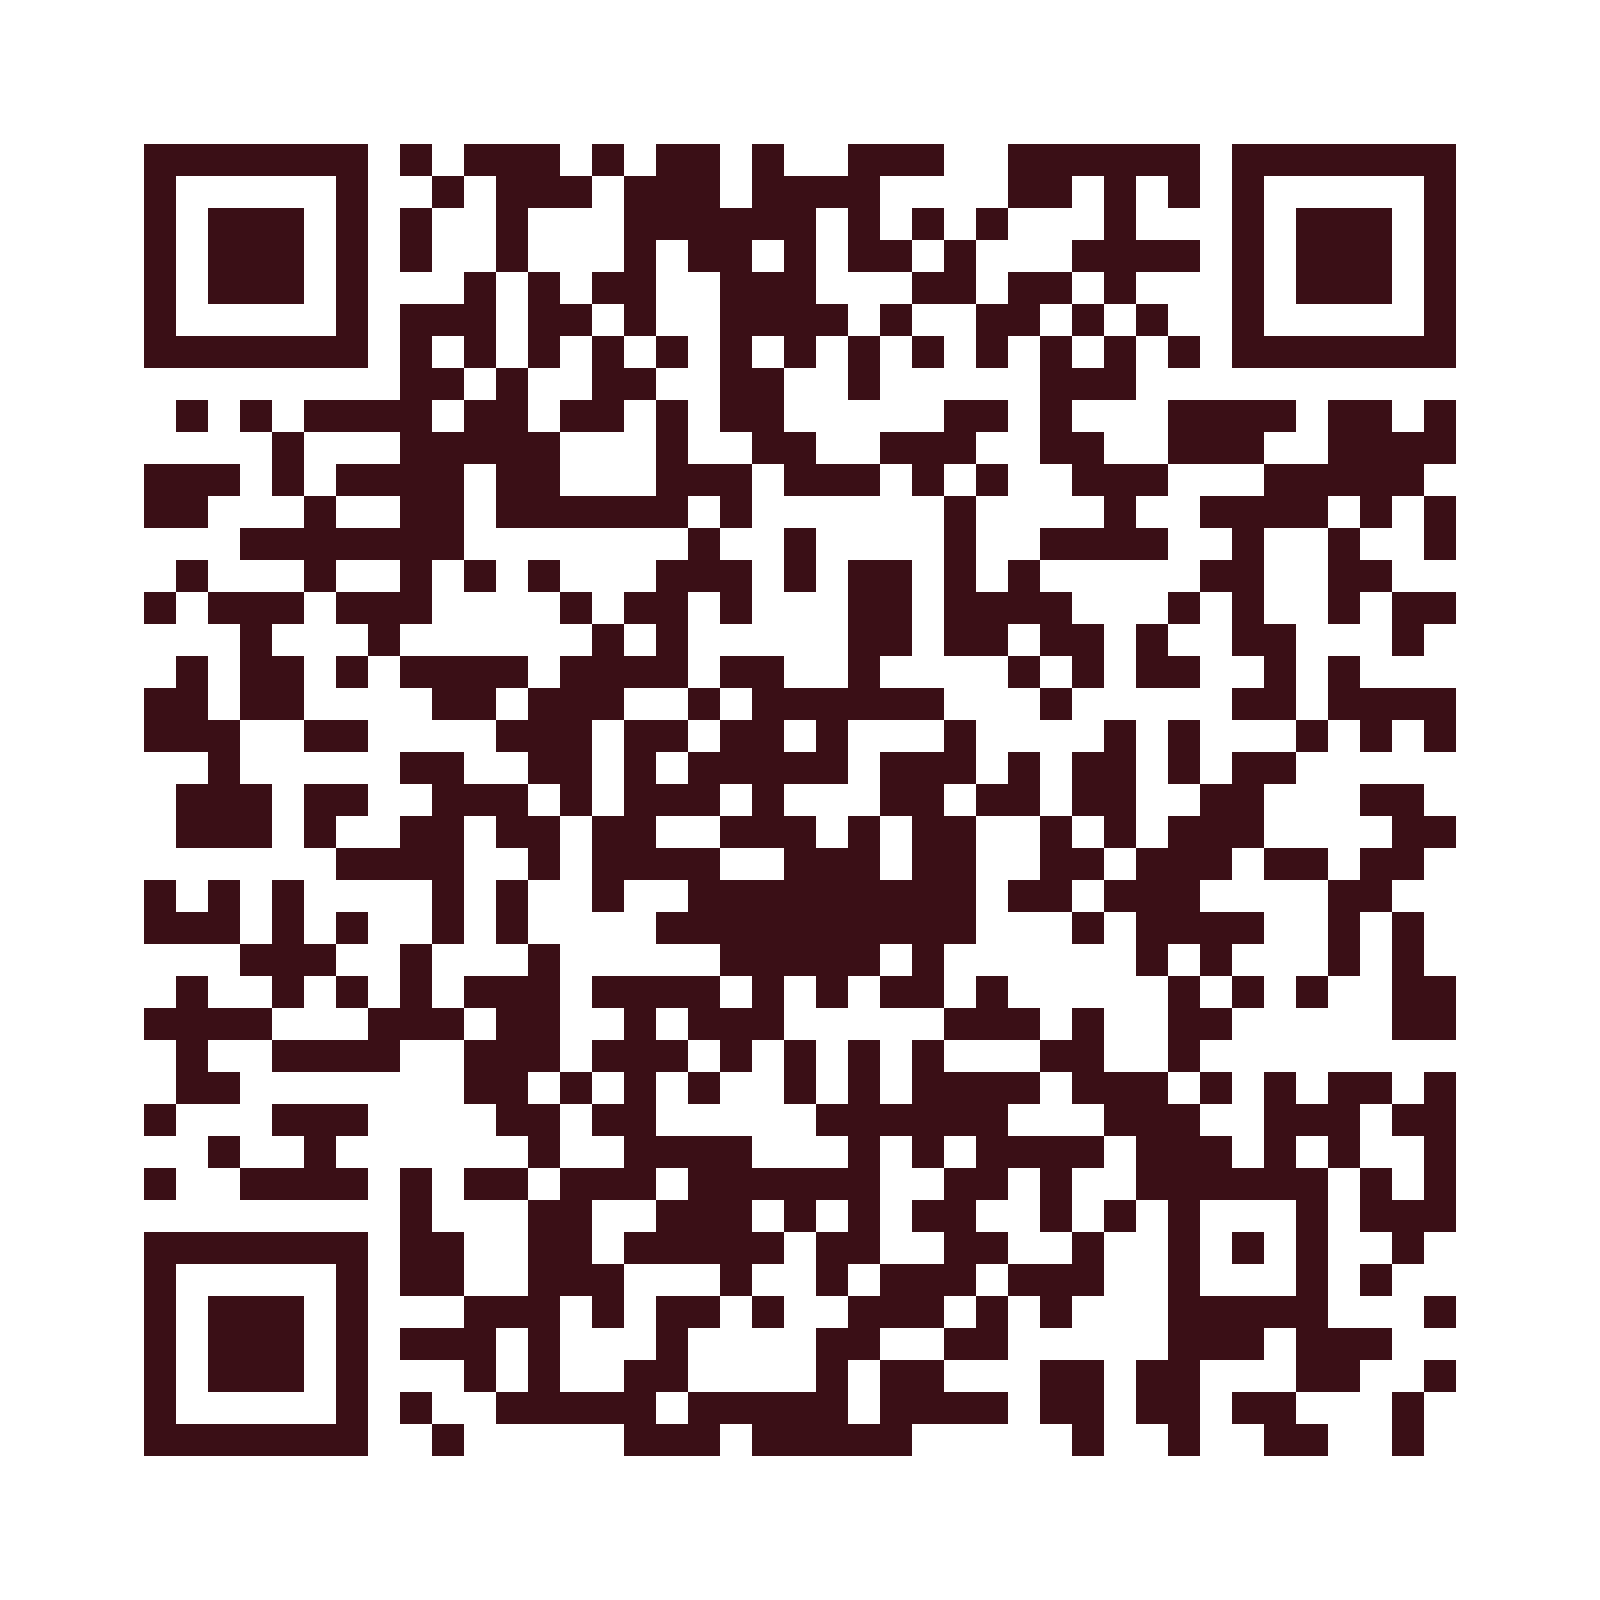
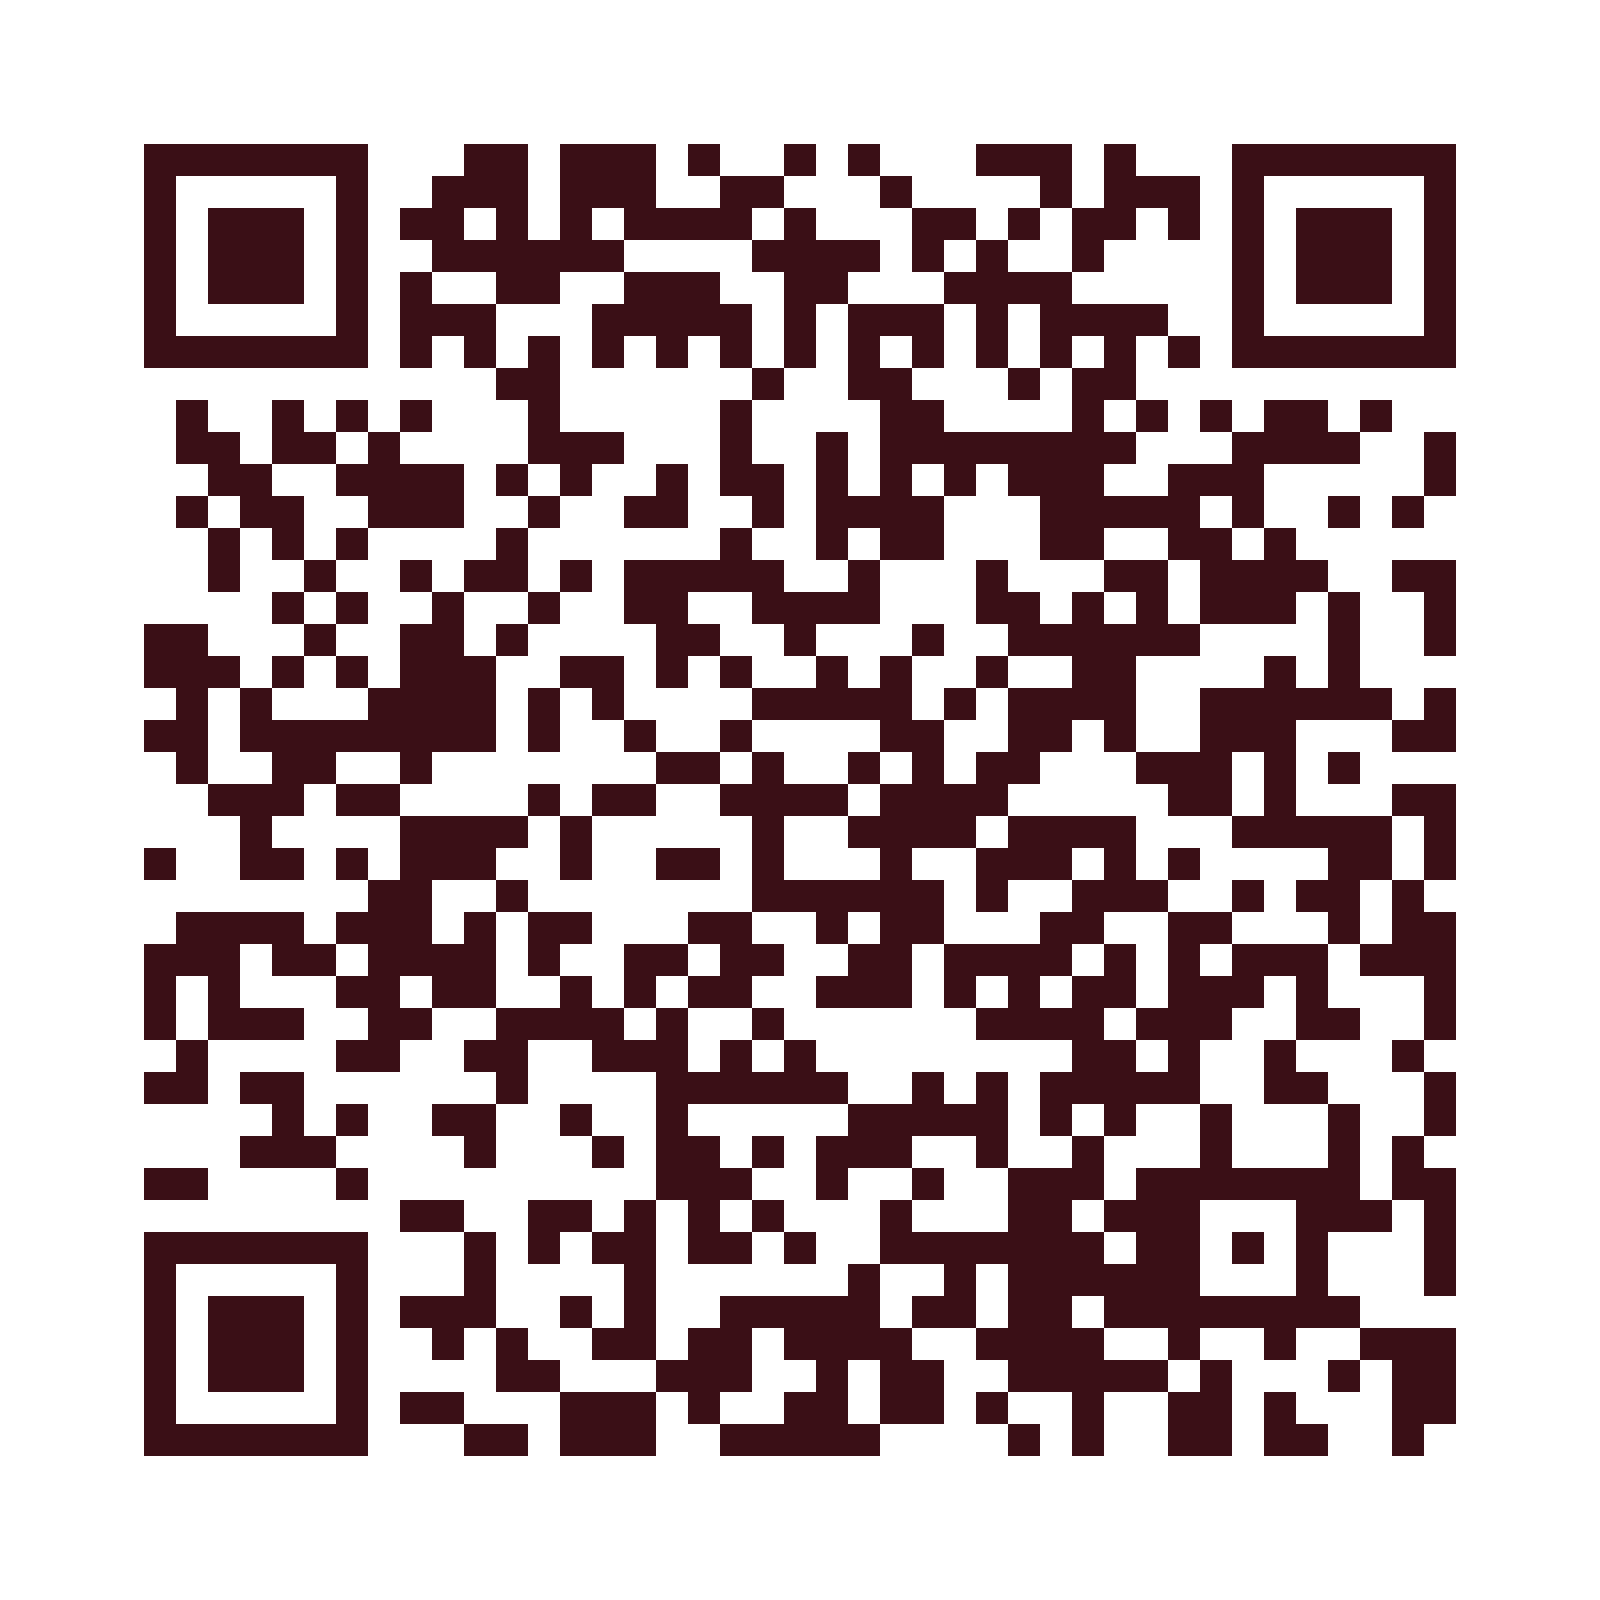
Endereço próprio solarbeirao-metrikaid.vercel.app (QR, vCard, canonical, sitemap)
O domínio solarbeirao-cacilhas.vercel.app pertence a outro projeto.

Claude-Session: https://claude.ai/code/session_01PyPXjCKKoYb4UxffwtLSCb

Changed region(s): [[0.0625, 0.0625, 0.9375, 0.9375]]

diff --git a/index.html b/index.html
@@ -6,16 +6,16 @@
 <meta name="theme-color" content="#7a1f2b">
 <title>Solar Beirão Marisqueira · Cacilhas</title>
 <meta name="description" content="Solar Beirão Marisqueira em Cacilhas: ementa em 8 línguas, reservas, horário, avaliações e como chegar.">
-<link rel="canonical" href="https://solarbeirao-cacilhas.vercel.app/">
+<link rel="canonical" href="https://solarbeirao-metrikaid.vercel.app/">
 <meta name="robots" content="noindex">
 <meta property="og:type" content="restaurant.restaurant">
 <meta property="og:title" content="Solar Beirão Marisqueira · Cacilhas">
 <meta property="og:description" content="Solar Beirão Marisqueira em Cacilhas: ementa em 8 línguas, reservas, horário, avaliações e como chegar.">
-<meta property="og:url" content="https://solarbeirao-cacilhas.vercel.app/">
-<meta property="og:image" content="https://solarbeirao-cacilhas.vercel.app/og.jpg">
+<meta property="og:url" content="https://solarbeirao-metrikaid.vercel.app/">
+<meta property="og:image" content="https://solarbeirao-metrikaid.vercel.app/og.jpg">
 <meta property="og:image:width" content="1200"><meta property="og:image:height" content="630">
 <meta name="twitter:card" content="summary_large_image">
-<script type="application/ld+json">{"@context":"https://schema.org","@type":"Restaurant","name":"Solar Beirão Marisqueira","url":"https://solarbeirao-cacilhas.vercel.app","image":"https://solarbeirao-cacilhas.vercel.app/og.jpg","logo":"https://solarbeirao-cacilhas.vercel.app/icon-512.png","telephone":"+351212766019","email":"solarbeirao1@gmail.com","servesCuisine":["Portuguese","Seafood"],"priceRange":"€€","address":{"@type":"PostalAddress","streetAddress":"Rua Cândido dos Reis, 17","addressLocality":"Almada","postalCode":"2800-270","addressCountry":"PT"},"geo":{"@type":"GeoCoordinates","latitude":38.6869225,"longitude":-9.1482377},"hasMenu":"https://solarbeirao-cacilhas.vercel.app/#ementa","acceptsReservations":true,"sameAs":["https://www.instagram.com/solarbeirao/","https://www.facebook.com/SolarBeiraoRestaurante/"]}</script>
+<script type="application/ld+json">{"@context":"https://schema.org","@type":"Restaurant","name":"Solar Beirão Marisqueira","url":"https://solarbeirao-metrikaid.vercel.app","image":"https://solarbeirao-metrikaid.vercel.app/og.jpg","logo":"https://solarbeirao-metrikaid.vercel.app/icon-512.png","telephone":"+351212766019","email":"solarbeirao1@gmail.com","servesCuisine":["Portuguese","Seafood"],"priceRange":"€€","address":{"@type":"PostalAddress","streetAddress":"Rua Cândido dos Reis, 17","addressLocality":"Almada","postalCode":"2800-270","addressCountry":"PT"},"geo":{"@type":"GeoCoordinates","latitude":38.6869225,"longitude":-9.1482377},"hasMenu":"https://solarbeirao-metrikaid.vercel.app/#ementa","acceptsReservations":true,"sameAs":["https://www.instagram.com/solarbeirao/","https://www.facebook.com/SolarBeiraoRestaurante/"]}</script>
 <link rel="icon" href="favicon-32.png" sizes="32x32">
 <link rel="apple-touch-icon" href="apple-touch-icon.png">
 <link rel="preload" href="assets/fonts/playfair-display-latin-500-normal.woff2" as="font" type="font/woff2" crossorigin>

diff --git a/ementa.html b/ementa.html
@@ -6,10 +6,10 @@
 <meta name="theme-color" content="#7a1f2b">
 <title>Ementa · Solar Beirão Marisqueira</title>
 <meta name="description" content="Ementa digital do Solar Beirão Marisqueira (Cacilhas) em 8 línguas.">
-<link rel="canonical" href="https://solarbeirao-cacilhas.vercel.app/ementa.html">
+<link rel="canonical" href="https://solarbeirao-metrikaid.vercel.app/ementa.html">
 <meta name="robots" content="noindex">
 <meta property="og:title" content="Solar Beirão Marisqueira · Ementa">
-<meta property="og:image" content="https://solarbeirao-cacilhas.vercel.app/og.jpg">
+<meta property="og:image" content="https://solarbeirao-metrikaid.vercel.app/og.jpg">
 <link rel="icon" href="favicon-32.png" sizes="32x32">
 <link rel="apple-touch-icon" href="apple-touch-icon.png">
 <link rel="preload" href="assets/fonts/playfair-display-latin-500-normal.woff2" as="font" type="font/woff2" crossorigin>

diff --git a/config.js b/config.js
@@ -6,7 +6,7 @@
    ===================================================================== */
 window.METRIKA_CONFIG = {
   modo: "demo",
-  url: "https://solarbeirao-cacilhas.vercel.app",
+  url: "https://solarbeirao-metrikaid.vercel.app",
 
   negocio: {
     nome: "Solar Beirão",
